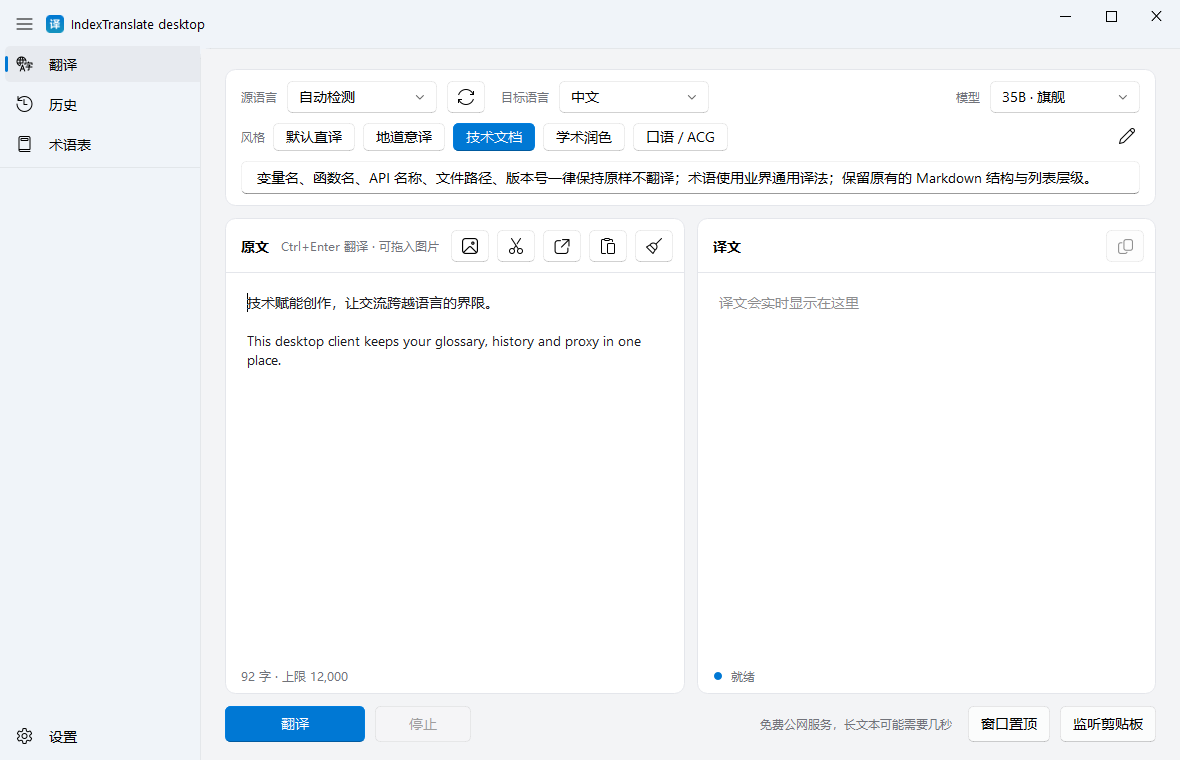
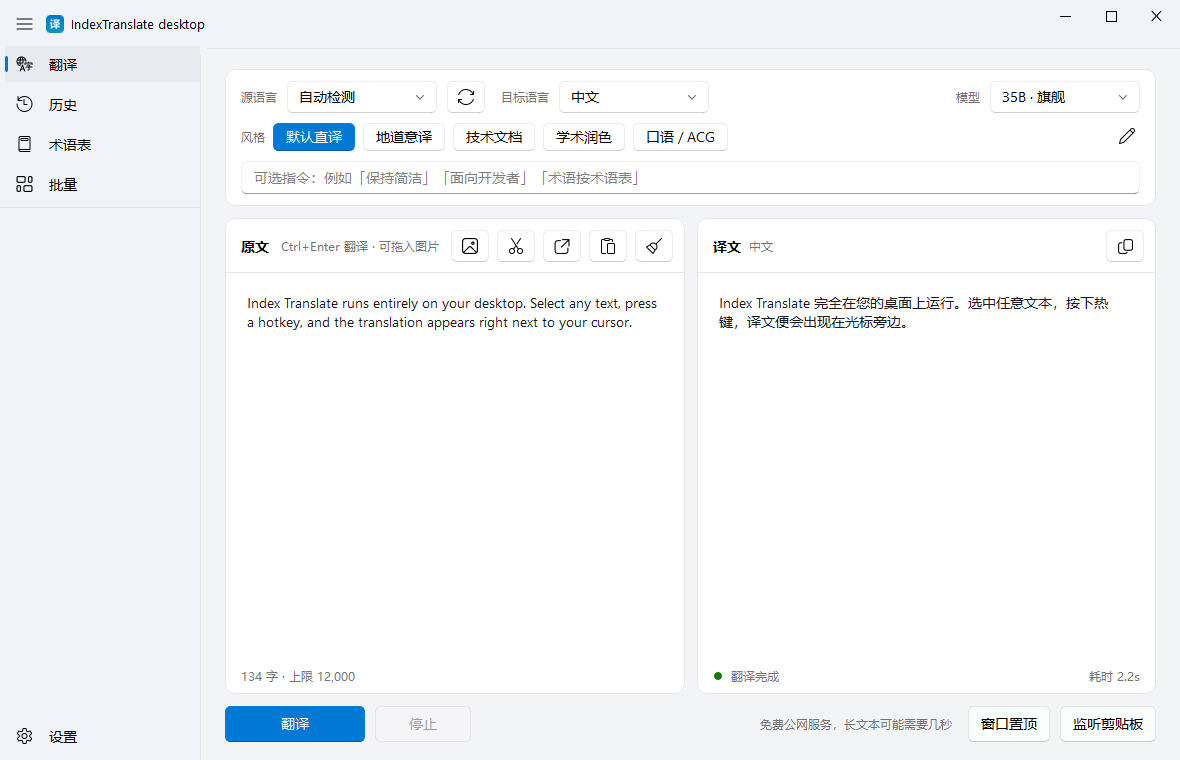
README: 更新界面截图，补历史记录与系统集成说明
截图
- 全部界面截图用 1.2.0 版本重新拍摄（含真实的翻译结果、术语分组、批量队列、
  代理缓存命中统计、已生效的全局快捷键）
- 新增 history.png、settings-system.png，README 对应章节已引用
- 移除未被引用的两张深色变体

顺带修掉截图时暴露的三个界面问题
- 术语表：新建/重命名/删除分组后表格不刷新，切换分组看到的是上一个分组的行
- 批量：表头居中与左对齐的单元格不齐；摘要不再从右边缘硬截断，超长加省略号
- 批量：并发数字框固定 88px 会把数值挤成 0 宽（改为 120px）

diff --git a/app/ui/batch_page.py b/app/ui/batch_page.py
@@ -58,6 +58,9 @@ FILTER = (
 
 EXPORT_MODES = [("bilingual", "双语对照"), ("target", "仅译文"), ("both", "原文 + 译文分节")]
 
+_ALIGN_LEFT = Qt.AlignmentFlag.AlignLeft | Qt.AlignmentFlag.AlignVCenter
+_SUMMARY_CHARS = 46
+
 
 class BatchRunner:
     """把每一项的每一段排进一个小并发池里跑。"""
@@ -213,6 +216,10 @@ class BatchPage(PageWidget):
         self.table = TableWidget(self)
         self.table.setColumnCount(5)
         self.table.setHorizontalHeaderLabels(["文件", "状态", "进度", "用时", "摘要"])
+        for column in range(5):
+            header_item = self.table.horizontalHeaderItem(column)
+            if header_item is not None:
+                header_item.setTextAlignment(_ALIGN_LEFT)
         self.table.verticalHeader().setVisible(False)
         self.table.setSelectionBehavior(QAbstractItemView.SelectionBehavior.SelectRows)
         self.table.setSelectionMode(QAbstractItemView.SelectionMode.ExtendedSelection)
@@ -247,7 +254,8 @@ class BatchPage(PageWidget):
         tools_layout.addWidget(MutedLabel("并发", size=12))
         self.concurrency_spin = SpinBox()
         self.concurrency_spin.setRange(1, 4)
-        self.concurrency_spin.setFixedWidth(88)
+        # 88 px 会把数字挤成 0 宽（qfluentwidgets 的 SpinBox sizeHint ≈ 106）
+        self.concurrency_spin.setFixedWidth(120)
         self.concurrency_spin.setToolTip("同时进行的请求数；公网免费服务建议保持 1–2")
         self.concurrency_spin.setValue(int(settings.get("batch_concurrency", 1) or 1))
         tools_layout.addWidget(self.concurrency_spin)
@@ -403,13 +411,19 @@ class BatchPage(PageWidget):
         item = self.items[index]
         name_item = QTableWidgetItem(item.name)
         name_item.setToolTip(str(item.path))
+        name_item.setTextAlignment(_ALIGN_LEFT)
         self.table.setItem(index, 0, name_item)
         self.table.setItem(index, 1, QTableWidgetItem(STATUS_TEXT.get(item.status, item.status)))
         self.table.setItem(index, 2, QTableWidgetItem(f"{item.finished}/{item.total}"))
         self.table.setItem(
             index, 3, QTableWidgetItem(f"{item.elapsed_ms / 1000:.1f}s" if item.elapsed_ms else "—")
         )
-        self.table.setItem(index, 4, QTableWidgetItem(item.summary))
+        summary = item.summary
+        if len(summary) > _SUMMARY_CHARS:
+            summary = summary[:_SUMMARY_CHARS - 1].rstrip() + "…"
+        summary_item = QTableWidgetItem(summary)
+        summary_item.setToolTip(item.summary)
+        self.table.setItem(index, 4, summary_item)
 
     def refresh_row(self, index: int) -> None:
         if 0 <= index < len(self.items):

diff --git a/app/ui/glossary_page.py b/app/ui/glossary_page.py
@@ -131,6 +131,10 @@ class GlossaryPage(PageWidget):
         self.table = TableWidget(self)
         self.table.setColumnCount(2)
         self.table.setHorizontalHeaderLabels(["术语", "译法"])
+        for column in range(2):
+            header_item = self.table.horizontalHeaderItem(column)
+            if header_item is not None:
+                header_item.setTextAlignment(ALIGN_LEFT)
         self.table.verticalHeader().setVisible(False)
         self.table.setSelectionBehavior(QAbstractItemView.SelectionBehavior.SelectRows)
         self.table.setSelectionMode(QAbstractItemView.SelectionMode.ExtendedSelection)
@@ -199,6 +203,8 @@ class GlossaryPage(PageWidget):
         self.group_switch.setChecked(bool(enabled_map.get(self._current_group, True)))
         self.group_switch.blockSignals(blocked)
         settings.set("glossary_group", self._current_group)
+        # 新建 / 重命名 / 删除 / 停用分组后调用到这里，表格必须跟着切换
+        self.refresh()
 
     def _on_group_changed(self, _index: int) -> None:
         self._current_group = str(self.group_combo.currentData() or DEFAULT_GROUP)

diff --git a/README.md b/README.md
@@ -106,6 +106,8 @@ IndexTranslate-desktop/
 
 ## 系统级功能
 
+<img src="doc/screenshots/settings-system.png" alt="系统集成设置" width="860">
+
 ### 全局快捷键
 
 | 快捷键 | 功能 |
@@ -156,6 +158,15 @@ IndexTranslate-desktop/
 - 点链接按钮输入 `http(s)` 图片地址。
 
 图片超过 **2048 px** 或 **4 MB** 会自动等比压缩后上传；服务只接受 Base64，远程链接会先在本地下载再转 Base64。
+
+### 历史记录
+
+<img src="doc/screenshots/history.png" alt="历史记录" width="860">
+
+- 每次翻译（文本或图片）都会自动入历史，记录原文、译文、语种、模型和用时；图片附带缩略图。
+- 搜索框同时匹配**原文与译文**，边打字边筛；结果分页加载（每次 50 条），底部「加载更多」继续往下翻。
+- 每行右侧三个按钮：**复制译文**、**载入到翻译页**（把这条原文带回主界面继续改）、**删除这条记录**。
+- 保留条数在「设置 → 翻译选项 → 历史保留条数」里设定（默认 500，设 0 表示不自动清理）。
 
 ### 风格预设（解决"偏直译"）
 
